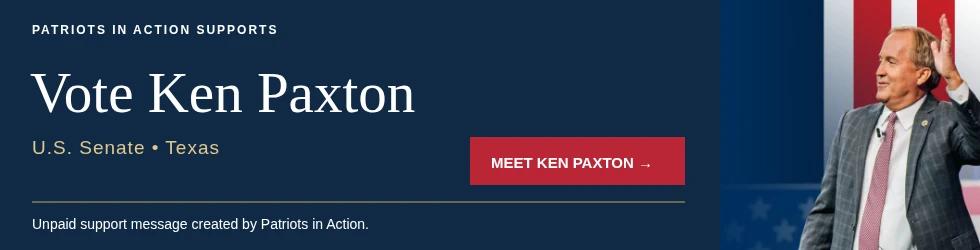
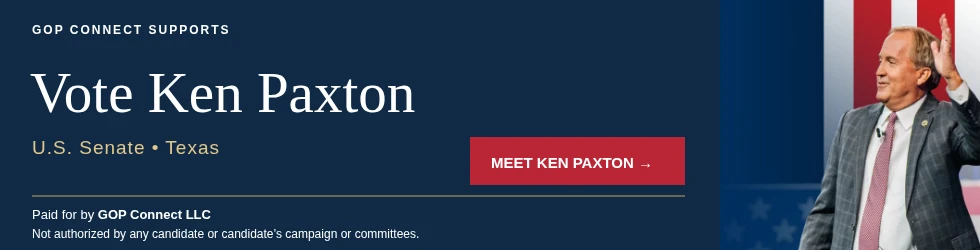
Name the payers on the Abbott and Paxton ads
The owner replaced the "Patriots in Action supports" and unpaid-support wording
on the four Texas campaign ads:

- Greg Abbott: "Patriots for Action supports", "Paid for by PatriotsForAction.org."
- Ken Paxton: "GOP Connect supports", "Paid for by GOP Connect LLC."
- Both: "Not authorized by any candidate or candidate's campaign or committees."

The artwork is rebuilt on the PIA site and copied here byte for byte; the alt
text carries the same attribution. Links, placements and Texas targeting are
unchanged.

Changed region(s): [[0.0306, 0.756, 0.7041, 0.812], [0.0306, 0.84, 0.4286, 0.952], [0.0306, 0.084, 0.3061, 0.14]]

diff --git a/src/data/campaign-ads.ts b/src/data/campaign-ads.ts
@@ -4,11 +4,12 @@ import paxtonBanner from "../../ad-assets/ken-paxton-banner.webp";
 import abbottSquare from "../../ad-assets/greg-abbott-square.webp";
 import abbottBanner from "../../ad-assets/greg-abbott-banner.webp";
 
-// Existing Patriots in Action artwork, including its support attribution.
+// Artwork built by the PIA site (scripts/campaigns/build-ads.ts), which names each
+// ad's supporter and payer; the alt text repeats that attribution.
 export const paxtonSquareAd: AdCreative = {
   id: "ken-paxton-inline", slot: "inline", image: paxtonSquare,
   name: "Ken Paxton",
-  alt: "Vote Ken Paxton for U.S. Senate · Texas. Unpaid support message created by Patriots in Action. View campaign information.",
+  alt: "Vote Ken Paxton for U.S. Senate · Texas. Paid for by GOP Connect LLC. Not authorized by any candidate or candidate’s campaign or committees. View campaign information.",
   href: "https://patriotsinaction.com/ken-paxton",
   stateSlugs: ["texas"], mastheadSponsor: false,
 };
@@ -18,7 +19,7 @@ export const paxtonBannerAd: AdCreative = {
 export const abbottSquareAd: AdCreative = {
   id: "greg-abbott-inline", slot: "inline", image: abbottSquare,
   name: "Greg Abbott",
-  alt: "Vote Greg Abbott for Texas Governor. Unpaid support message created by Patriots in Action. View campaign information.",
+  alt: "Vote Greg Abbott for Texas Governor. Paid for by PatriotsForAction.org. Not authorized by any candidate or candidate’s campaign or committees. View campaign information.",
   href: "https://patriotsinaction.com/greg-abbott",
   stateSlugs: ["texas"], mastheadSponsor: false,
 };

diff --git a/tests/e2e/advertisers-install.spec.ts b/tests/e2e/advertisers-install.spec.ts
@@ -476,8 +476,9 @@ test("edition home pages show the banner below the lead feed and the square caro
 test("Texas desks display both campaign formats and banners remain selectable", async ({ page }) => {
   for (const path of ["/texas", "/texas/harris"]) {
     await page.goto(path);
-    for (const [id, name] of [["ken-paxton", "Ken Paxton"], ["greg-abbott", "Greg Abbott"]]) {
+    for (const [id, name, payer] of [["ken-paxton", "Ken Paxton", "GOP Connect LLC"], ["greg-abbott", "Greg Abbott", "PatriotsForAction.org"]]) {
       const square = page.locator(`.ad-slot-inline img[src*="${id}-square"]`).first();
+      expect(await square.getAttribute("alt")).toContain(`Paid for by ${payer}. Not authorized by any candidate or candidate’s campaign or committees.`);
       await square.evaluate((img: HTMLImageElement) => img.decode());
       expect(await square.evaluate((img: HTMLImageElement) => [img.naturalWidth, img.naturalHeight])).toEqual([600, 600]);
       await expect(square.locator("..")).toHaveAttribute("href", `https://patriotsinaction.com/${id}`);
